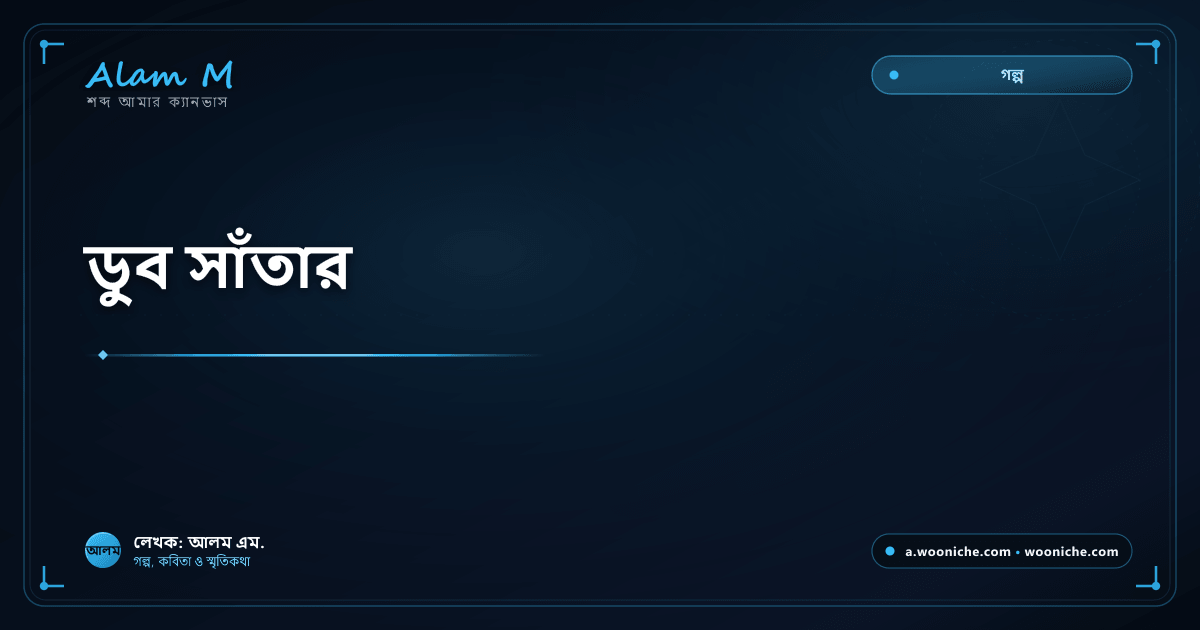
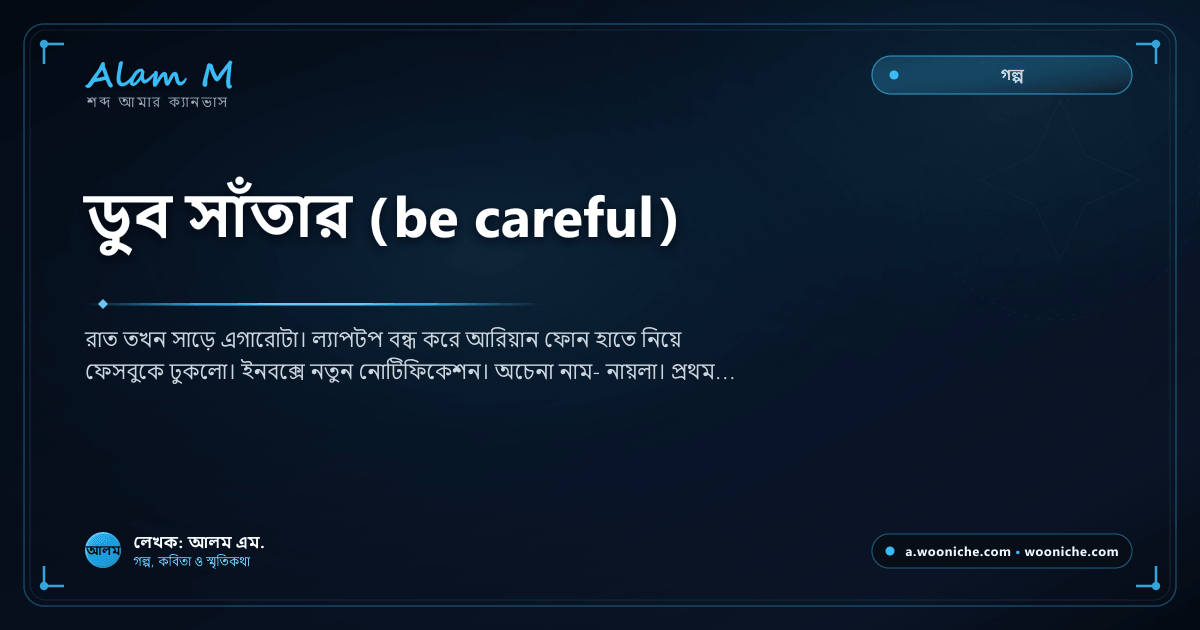
content: update story 'ডুব সাঁতার (be careful)' in rich text format with dynamic OG card

Changed region(s): [[0.0617, 0.2714, 0.6167, 0.6032], [0.8325, 0.0905, 0.8633, 0.1206]]

diff --git a/src/integrations/d1/seed-data.ts b/src/integrations/d1/seed-data.ts
@@ -2,6 +2,23 @@
 export const INITIAL_SEED_DATA = {
   "articles": [
     {
+      "id": "240ca110-56e6-4cb2-8483-b5cba79d6def",
+      "slug": "be-careful",
+      "title_bn": "ডুব সাঁতার (be careful)",
+      "title_en": "Be Careful",
+      "excerpt_bn": "রাত তখন সাড়ে এগারোটা। ল্যাপটপ বন্ধ করে আরিয়ান ফোন হাতে নিয়ে ফেসবুকে ঢুকলো। ইনবক্সে নতুন নোটিফিকেশন। অচেনা নাম- নায়লা। প্রথম মেসেজটা পড়েই বুকটা ধড়াস করে উঠলো...",
+      "excerpt_en": "It was half past eleven at night. Ariyan closed his laptop. Picked up his phone. Opened Facebook. And there it was—a message from a name he'd never seen before...",
+      "content_bn": "<p>রাত তখন সাড়ে এগারোটা। ল্যাপটপ বন্ধ করে আরিয়ান ফোন হাতে নিয়ে ফেসবুকে ঢুকলো। ইনবক্সে নতুন নোটিফিকেশন। অচেনা নাম- নায়লা।</p><p>প্রথম মেসেজটা পড়েই বুকটা ধড়াস করে উঠলো-<br>\"চলেন দেখা করি, চা খাই। প্রেম হলে হলো, না হলে নাই।\"</p><p>আরিয়ান হেসে ফেললো। মেয়েটা অচেনা হলেও মেসেজে দারুণ সাহস। সে জবাব দিলো-<br>\"এত রাতে? একটু চটজলদি হয়ে গেলো না?\"</p><p>নায়লা তৎক্ষণাৎ লিখলো-<br>\"হুট করেই তো মজাটা বেশি হয়।\"</p><p>এরপর শুরু হলো ছোট ছোট কথোপকথন। রাত গড়িয়ে গেলেও নায়লার বার্তা আসতেই থাকলো। কখনো সে মজার ছলে লিখছে-<br>\"ঘুমাচ্ছেন না কেন এখনো? কি করছেন এত রাত জেগে?\"<br>কখনো হালকা ইমোজি যোগ করছে- উইঙ্ক, হার্ট, হাসি।</p><p>ধীরে ধীরে ইনবক্স থেকে গল্প গড়াল ভিডিও কলে। প্রথম কলেই নায়লা আধো অন্ধকার ঘরে, ঢিলে নাইটি পরে হাজির। আরিয়ানের দৃষ্টি আটকে গেলো নাইটির ফাঁক গলে যেখানে বুকের ভাঁজ ঝলকাচ্ছিল।</p><p>নায়লা চুল খোলা রেখে হাসি মেখে বললো-<br>\"দেখছো তো? এত রাতে জেগে থাকার পুরস্কার।\"</p><p>প্রথম কলেই রোমান্টিক ইঙ্গিত, একটু দুষ্টুমি খুনসুটি। আরিয়ানের মনে হল সে যেন স্বপ্নে ঢুকে পড়েছে। কলের শেষে নায়লা ক্যামেরার দিকে হালকা ঝুঁকে ফ্লাইং কিস ছুঁড়ে দিলো। বুকের ভাঁজে আগুন!</p><p>এভাবেই দিন কেটে যেতে লাগলো। কখনো লাজুক ইশারা, কখনো মিষ্টি অভিমান- কিন্তু প্রতিটি রাতে যেন আবেশে ডুবে থাকতো দু’জন। আরিয়ানের কাছে রাত মানেই এখন নায়লা।</p><p>কয়েক সপ্তাহ এমন চলার পর এক রাতে নায়লা ফিসফিস করে বললো-<br>\"জানো, আমার হাসবেন্ড অফিসের ট্যুরে দেশের বাইরে যাচ্ছে। পুরো এক সপ্তাহ আমি একা।\"</p><p>আরিয়ান চমকে উঠলো-<br>\"তুমি… বিবাহিতা?\"</p><p>নায়লা মৃদু হেসে বললো-<br>\"এখন জেনে কি লাভ? এতদিন জানোনি তো কোনো অসুবিধা হয়নি। তুমি শুধু ভাবো আমি তোমার।\"</p><p>এরপর নায়লা মোহাবিষ্ট কণ্ঠে বললো-<br>\"ভিডিও কলে তো সবই দেখেছো। এবার ছুঁয়ে দেখবে, আদর করবে। আমি তোমার জন্য লাল সেট রেখেছি। তুমি খুলে খুলে আমায় আবিষ্কার করবে। তবে মনে রেখো, আমি কামড়াবো, তুমি পারবে না। তুমি শুধু আদরে ভরিয়ে দেবে। পারবে তো?\"</p><p>আরিয়ান মাথা নাড়লো। সন্দেহ বা ভয়কে দূরে ঠেলে দিয়ে তার চোখে ভাসলো কেবল এক প্রলোভনের পৃথিবী।</p><p>অবশেষে দিন এল। সকালে কলিং বেল। কাজের বুয়া এসেছে। নায়লা সোজা বলে দিলো-<br>\"আজকে কাজ করতে হবেনা। আমি নিজেই করবো।\"</p><p>দিনের পর দিন চললো তাদের ডুব সাঁতার- রোমান্টিকতা আর নেশার মিশ্রণে। ভিডিও কলে একে অপরকে ছুঁয়ে দেখা, রঙিন কথা, হাসি-ঠাট্টা। বিকেলে আরিয়ান কল দিলে নায়লা তাকে আরও উস্কে দিতো।</p><p>একদিন সন্ধ্যায় নায়লা হঠাৎ আরিয়ানের মেসেঞ্জারে একটা ভিডিও ক্লিপ পাঠালো। সেখানে দেখা গেল তাদের আগের রাতের অন্তরঙ্গ মুহূর্ত।</p><p>আরিয়ান এক মুহূর্তের জন্যও খেয়াল করলো না, এতটা ব্যক্তিগত ভিডিও আসলো কীভাবে। তার মাথা তখন শুধু একটাই- আবার ডুব দিতে হবে। রাতে সে ছুটলো নায়লার বাসায়।</p><p>এভাবেই কয়েকদিন ধরে চললো। আরিয়ান বুঝতেই পারলো না- সবকিছুই গোপন ক্যামেরায় রেকর্ড হচ্ছে।</p><p>এক সপ্তাহ পর নায়লা জানালো-<br>\"আমার হাসবেন্ড ফিরে এসেছে।\"</p><p>এরপর আর আগের মতো ঘন ঘন ভিডিও কল নয়। মাঝে মাঝে মাত্র এক মিনিটের জন্য নায়লা অনলাইনে এসে ফ্লাইং কিস ছুঁড়ে দিতো, তারপর মিলিয়ে যেতো।</p><p>কিন্তু ততদিনে আরিয়ান আসক্ত। সে ডুব সাঁতার ছাড়া থাকতে পারে না। নায়লা তখন নতুন প্রস্তাব দিলো-<br>\"তুমি একটা ৫-স্টার হোটেলে রুম বুক করো। আমি সকালে চলে আসবো। সারাদিন একসাথে থাকবো। তুমি তোমার মতো মজা করবে।\"</p><p>আরিয়ান দুই দিন পর রুম বুক করলো। মেসেজে লিখলো-<br>\"হোটেল ইন্টারকন্টিনেন্টাল, রুম ৩০৩।\"</p><p>সকালবেলা দরজায় নক হলো। দরজা খুলতেই আরিয়ান স্তম্ভিত। নায়লা এসেছে, তবে সঙ্গে আরেকজন পুরুষ।</p><p>আরিয়ানের চোখ কপালে উঠে গেলো-<br>\"এটা কি হচ্ছে?\"</p><p>নায়লা ঠান্ডা হাসি দিয়ে একটা পেনড্রাইভ এগিয়ে দিলো-<br>\"ল্যাপটপে চালাও।\"</p><p>কাঁপতে থাকা হাতে আরিয়ান ভিডিও চালালো। পর্দায় ভেসে উঠলো তার আর নায়লার গোপন মুহূর্তগুলো- প্রতিটি সেকেন্ড ক্যামেরাবন্দী।</p><p>রুমের নিস্তব্ধতায় আরিয়ানের বুক ধড়ফড় করতে লাগলো। কিছুক্ষণ পর নিজেই চুপচাপ বললো-<br>\"কত টাকা চাও?\"</p><p>নায়লা ঠোঁট বাঁকিয়ে হেসে বললো-<br>\"টাকা নয়। যখন ডাকবো, কলে আসবে। মজা নেবে, আর সোনার ডিম পাড়বে। আমাদের খেলা এখনো শেষ হয়নি।\"</p><p>আরিয়ান চুপচাপ বসে রইলো। চোখের সামনে হঠাৎ ভেসে উঠলো সেই প্রথম মেসেজ-<br>\"চলেন দেখা করি, চা খাই। প্রেম হলে হলো, না হলে নাই।\"</p><p>তখনই সে বুঝলো- প্রেম ছিল না কোথাও, সবকিছুই ছিল নিখুঁতভাবে সাজানো এক ফাঁদ। রোমান্সের আবরণে আসক্তি, আসক্তির আড়ালে ব্ল্যাকমেইল। নায়লার প্রতিটি হাসি, প্রতিটি ইঙ্গিত ছিল পরিকল্পনার অংশ। আরিয়ানের কাছে রাতগুলো স্বপ্নের মতো মনে হলেও সেগুলোই হয়ে উঠলো দুঃস্বপ্ন।</p><p>ফ্লাইং কিসের মোহ, নাইটির ঝলক আর ডুব সাঁতারের নেশা - সব মিলিয়ে এক ভয়ংকর পরিণতির দিকে ঠেলে দিলো তাকে। শেষ পর্যন্ত প্রেম নয়, প্রলোভনই জয়ী হলো আর আরিয়ান রয়ে গেলো অন্ধকার ব্ল্যাকমেইলের বন্দি।</p><p class=\"poem-date\"><strong>©আলম</strong> - ৩০ সেপ্টেম্বর ২০২৫ইং, রাত ১২টা।</p>",
+      "content_en": "<div>It was half past eleven at night.</div><div><br></div><div>Ariyan closed his laptop. Picked up his phone. Opened Facebook.</div><div><br></div><div>And there it was—a message from a name he'd never seen before. Nayla.</div><div><br></div><div>He clicked it. Read the first line. And his heart just… stopped.</div><div><br></div><div>\"Let's meet up. Grab some tea. If it happens, it happens. If not, no big deal.\"</div><div><br></div><div>He laughed. A stranger. But bold. Really bold.</div><div><br></div><div>So he typed back—</div><div><br></div><div>\"At this hour? Isn't that a little sudden?\"</div><div><br></div><div>Her reply came in seconds—</div><div><br></div><div>\"That's the whole point. Spontaneity.\"</div><div><br></div><div>And just like that, the night came alive.</div><div><br></div><div>Text after text. Wink after wink. Heart after heart. She knew exactly what to say, exactly when to say it.</div><div><br></div><div>Soon, messages weren't enough. They moved to video calls.</div><div><br></div><div>The first time he saw her—dim room, loose nightie, hair falling over her shoulders—he forgot how to breathe.</div><div><br></div><div>She smiled. Slow. Dangerous.</div><div><br></div><div>\"See?\" she said. \"This is what happens when you stay up.\"</div><div><br></div><div>And then—a flying kiss. Straight through the screen. And something inside Ariyan… caught fire.</div><div><br></div><div>Days turned into weeks. Every night was hers. Sometimes shy, sometimes playful, always addictive. For Ariyan, night stopped meaning sleep. It meant Nayla.</div><div><br></div><div>Then one night, she whispered something that should've been a warning—</div><div><br></div><div>\"My husband's going abroad. Whole week. I'll be all alone.\"</div><div><br></div><div>He froze.</div><div><br></div><div>\"You're… married?\"</div><div><br></div><div>She just smiled.</div><div><br></div><div>\"Does it matter now? You didn't ask before. Just think of me as yours.\"</div><div><br></div><div>And then her voice dropped. Low. Smooth. Lethal.</div><div><br></div><div>\"You've seen everything on screen. Now it's time to feel. I've got a red set waiting. You'll unwrap me. Discover me. But I'll bite—and you won't last. You'll just hold me, drown me in love. Can you do that?\"</div><div><br></div><div>Ariyan nodded. Didn't think twice. Didn't want to.</div><div><br></div><div>Temptation had already won.</div><div><br></div><div>The day came. Morning. Doorbell. The maid.</div><div><br></div><div>Nayla waved her off—</div><div><br></div><div>\"Not today. I'll handle it.\"</div><div><br></div><div>And so it went. Day after day. Calls. Laughter. Heat. Every afternoon, he'd call—and she'd turn the temperature up.</div><div><br></div><div>Then one evening, she sent him a video.</div><div><br></div><div>A clip from their night before. Intimate. Private. Recorded.</div><div><br></div><div>And Ariyan? He didn't even pause to ask how. His mind was already gone. All he wanted was more. That night, he ran to her place.</div><div><br></div><div>He never noticed the cameras. Never saw the trap closing in.</div><div><br></div><div>A week later, she said—</div><div><br></div><div>\"My husband's back.\"</div><div><br></div><div>The calls stopped. She'd pop online for a minute, blow a kiss, and vanish.</div><div><br></div><div>But Ariyan was already hooked. He couldn't go back. Couldn't stop.</div><div><br></div><div>That's when she made her move.</div><div><br></div><div>\"Book a five-star hotel. I'll come in the morning. We'll have all day. Your way. Your fun.\"</div><div><br></div><div>Two days later, he booked it. Texted her the details.</div><div><br></div><div>\"Intercontinental. Room 303.\"</div><div><br></div><div>Morning. Knock on the door.</div><div><br></div><div>He opened it—and his world cracked.</div><div><br></div><div>Nayla was there. But so was someone else. A man. Standing right behind her.</div><div><br></div><div>Ariyan's voice broke—</div><div><br></div><div>\"What… what is this?\"</div><div><br></div><div>Nayla smiled. Cold. Flat. And handed him a pendrive.</div><div><br></div><div>\"Plug it in.\"</div><div><br></div><div>His hands were shaking. He played the video.</div><div><br></div><div>And there it was. Every moment. Every touch. Every secret. Captured. Clean. Clear.</div><div><br></div><div>Silence.</div><div><br></div><div>His heart pounded so loud he could hear it in his ears.</div><div><br></div><div>Finally, he whispered—</div><div><br></div><div>\"How much?\"</div><div><br></div><div>Nayla tilted her head. Smirked.</div><div><br></div><div>\"Not money. When I call, you answer. You play along. You keep laying golden eggs. This game… isn't over.\"</div><div><br></div><div>And Ariyan just sat there.</div><div><br></div><div>Empty.</div><div><br></div><div>Then, out of nowhere, her first message echoed in his head—</div><div><br></div><div>\"Let's meet up. Grab some tea. If it happens, it happens. If not, no big deal.\"</div><div><br></div><div>And that's when it hit him.</div><div><br></div><div>There was never any love.</div><div><br></div><div>It was a trap. Perfectly planned. Romance was just the mask. Addiction was the leash. And blackmail… blackmail was the punchline.</div><div><br></div><div>Every smile. Every tease. Every flying kiss. All of it—part of the script.</div><div><br></div><div>The nights he thought were dreams? They were his nightmare in disguise.</div><div><br></div><div>The flying kisses, the glow of her nightie, the rush of falling deeper—it all led him to one place. A dead end.</div><div><br></div><div>In the end, love didn't win.</div><div><br></div><div>Temptation did.</div><div><br></div><div>And Ariyan? He stayed behind—trapped in the dark, locked inside a blackmailer's game.</div><div><br></div><div>(Voiceover ends)</div><div><br></div><div>©Alam – 30 September 2025, 12 AM.</div>",
+      "cover_image_url": null,
+      "published": true,
+      "published_at": "2026-11-07T16:30:00.000Z",
+      "created_by": "3442b3b8-a20b-4c4a-9978-1e4815381806",
+      "author_id": "6a308470-2d8d-4cd8-996b-a96de32efdc2",
+      "created_at": "2026-11-07T16:30:00.000Z",
+      "updated_at": "2026-11-07T16:30:00.000Z"
+    },
+    {
       "id": "134bb1b1-738d-48d2-8457-db1c989f8401",
       "slug": "kalo-amar-kalo",
       "title_bn": "কালো আমার কালো",
@@ -238,27 +255,15 @@ export const INITIAL_SEED_DATA = {
       "created_at": "2026-08-19T22:15:50.491725+00:00",
       "updated_at": "2026-08-19T22:15:50.491725+00:00",
       "author_id": null
-    },
-    {
-      "id": "240ca110-56e6-4cb2-8483-b5cba79d6def",
-      "slug": "be-careful",
-      "title_bn": "ডুব সাঁতার",
-      "title_en": "Be Careful",
-      "excerpt_bn": null,
-      "excerpt_en": null,
-      "content_bn": "<div class=\"x14z9mp xat24cr x1lziwak x1vvkbs xtlvy1s x126k92a\" data-original-attrs=\"{&quot;style&quot;:&quot;&quot;}\" style=\"background-color: white; margin-inline: 0px; margin-top: 0.5em; overflow-wrap: break-word;\"><div data-original-attrs=\"{&quot;style&quot;:&quot;&quot;}\" dir=\"auto\" style=\"\"><font color=\"#080809\" face=\"Segoe UI Historic, Segoe UI, Helvetica, Arial, sans-serif\"><span style=\"white-space-collapse: preserve;\">রাত তখন সাড়ে এগারোটা। ল্যাপটপ বন্ধ করে আরিয়ান ফোন হাতে নিয়ে ফেসবুকে ঢুকলো। ইনবক্সে নতুন নোটিফিকেশন। অচেনা নাম—নায়লা।\n\nপ্রথম মেসেজটা পড়েই বুকটা ধড়াস করে উঠলো—\n\n\"চলেন দেখা করি, চা খাই। প্রেম হলে হলো, না হলে নাই।\"\n\nআরিয়ান হেসে ফেললো। মেয়েটা অচেনা হলেও মেসেজে দারুণ সাহস।\n\nসে জবাব দিলো—\n\n\"এত রাতে? একটু চটজলদি হয়ে গেলো না?\"\n\nনায়লা তৎক্ষণাৎ লিখলো—\n\n\"হুট করেই তো মজাটা বেশি হয়।\"\n\nএরপর শুরু হলো ছোট ছোট কথোপকথন। রাত গড়িয়ে গেলেও নায়লার বার্তা আসতেই থাকলো।\n\nকখনো সে মজার ছলে লিখছে—\n\n\"ঘুমাচ্ছেন না কেন এখনো? কি করছেন এত রাত জেগে?\"\n\nকখনো হালকা ইমোজি যোগ করছে—উইঙ্ক, হার্ট, হাসি।\n\nধীরে ধীরে ইনবক্স থেকে গল্প গড়াল ভিডিও কলে। প্রথম কলেই নায়লা আধো অন্ধকার ঘরে, ঢিলে নাইটি পরে হাজির। আরিয়ানের দৃষ্টি আটকে গেলো নাইটির ফাঁক গলে যেখানে বুকের ভাঁজ ঝলকাচ্ছিল।\n\nনায়লা চুল খোলা রেখে হাসি মেখে বললো—\n\n\"দেখছো তো? এত রাতে জেগে থাকার পুরস্কার।\"\n\nপ্রথম কলেই রোমান্টিক ইঙ্গিত, একটু দুষ্টুমি খুনসুটি। আরিয়ানের মনে হল সে যেন স্বপ্নে ঢুকে পড়েছে। কলের শেষে নায়লা ক্যামেরার দিকে হালকা ঝুঁকে ফ্লাইং কিস ছুঁড়ে দিলো। বুকের ভাঁজে আগুন!\n\nএভাবেই দিন কেটে যেতে লাগলো। কখনো লাজুক ইশারা, কখনো মিষ্টি অভিমান—কিন্তু প্রতিটি রাতে যেন আবেশে ডুবে থাকতো দুজন। আরিয়ানের কাছে রাত মানেই এখন নায়লা।\n\nকয়েক সপ্তাহ এমন চলার পর এক রাতে নায়লা ফিসফিস করে বললো—\n\n\"জানো, আমার হাসবেন্ড অফিসের ট্যুরে দেশের বাইরে যাচ্ছে। পুরো এক সপ্তাহ আমি একা।\"\n\nআরিয়ান চমকে উঠলো—\n\n\"তুমি… বিবাহিতা?\"\n\nনায়লা মৃদু হেসে বললো—\n\n\"এখন জেনে কি লাভ? এতদিন জানোনি তো কোনো অসুবিধা হয়নি। তুমি শুধু ভাবো আমি তোমার।\"\n\nএরপর নায়লা মোহাবিষ্ট কণ্ঠে বললো—\n\n\"ভিডিও কলে তো সবই দেখেছো। এবার ছুঁয়ে দেখবে, আদর করবে। আমি তোমার জন্য লাল সেট রেখেছি। তুমি খুলে খুলে আমায় আবিষ্কার করবে। তবে মনে রেখো, আমি কামড়াবো, তুমি পারবে না। তুমি শুধু আদরে ভরিয়ে দেবে। পারবে তো?\"\n\nআরিয়ান মাথা নাড়লো। সন্দেহ বা ভয়কে দূরে ঠেলে দিয়ে তার চোখে ভাসলো কেবল এক প্রলোভনের পৃথিবী।\n\nঅবশেষে দিন এল। সকালে কলিং বেল। কাজের বুয়া এসেছে। নায়লা সোজা বলে দিলো—\n\n\"আজকে কাজ করতে হবেনা। আমি নিজেই করবো।\"\n\nদিনের পর দিন চললো তাদের ডুব সাঁতার—রোমান্টিকতা আর নেশার মিশ্রণে। ভিডিও কলে একে অপরকে ছুঁয়ে দেখা, রঙিন কথা, হাসি-ঠাট্টা। বিকেলে আরিয়ান কল দিলে নায়লা তাকে আরও উস্কে দিতো।\n\nএকদিন সন্ধ্যায় নায়লা হঠাৎ আরিয়ানের মেসেঞ্জারে একটা ভিডিও ক্লিপ পাঠালো। সেখানে দেখা গেল তাদের আগের রাতের অন্তরঙ্গ মুহূর্ত।\n\nআরিয়ান এক মুহূর্তের জন্যও খেয়াল করলো না, এতটা ব্যক্তিগত ভিডিও আসলো কীভাবে। তার মাথা তখন শুধু একটাই—আবার ডুব দিতে হবে। রাতে সে ছুটলো নায়লার বাসায়।\n\nএভাবেই কয়েকদিন ধরে চললো। আরিয়ান বুঝতেই পারলো না—সবকিছুই গোপন ক্যামেরায় রেকর্ড হচ্ছে।\n\nএক সপ্তাহ পর নায়লা জানালো—\n\n\"আমার হাসবেন্ড ফিরে এসেছে।\"\n\nএরপর আর আগের মতো ঘন ঘন ভিডিও কল নয়। মাঝে মাঝে মাত্র এক মিনিটের জন্য নায়লা অনলাইনে এসে ফ্লাইং কিস ছুঁড়ে দিতো, তারপর মিলিয়ে যেতো।\n\nকিন্তু ততদিনে আরিয়ান আসক্ত। সে ডুব সাঁতার ছাড়া থাকতে পারে না। নায়লা তখন নতুন প্রস্তাব দিলো—\n\n\"তুমি একটা ৫-স্টার হোটেলে রুম বুক করো। আমি সকালে চলে আসবো। সারাদিন একসাথে থাকবো। তুমি তোমার মতো মজা করবে।\"\n\nআরিয়ান দুই দিন পর রুম বুক করলো। মেসেজে লিখলো—\n\n\"হোটেল ইন্টারকন্টিনেন্টাল, রুম ৩০৩।\"\n\nসকালবেলা দরজায় নক হলো। দরজা খুলতেই আরিয়ান স্তম্ভিত। নায়লা এসেছে, তবে সঙ্গে আরেকজন পুরুষ।\n\nআরিয়ানের চোখ কপালে উঠে গেলো।\n\n\"এটা কি হচ্ছে?\"\n\nনায়লা ঠান্ডা হাসি দিয়ে একটা পেনড্রাইভ এগিয়ে দিলো।\n\n\"ল্যাপটপে চালাও।\"\n\nকাঁপতে থাকা হাতে আরিয়ান ভিডিও চালালো। পর্দায় ভেসে উঠলো তার আর নায়লার গোপন মুহূর্তগুলো—প্রতি সেকেন্ড ক্যামেরাবন্দী।\n\nরুমের নিস্তব্ধতায় আরিয়ানের বুক ধড়ফড় করতে লাগলো। কিছুক্ষণ পর নিজেই চুপচাপ বললো—\n\n\"কত টাকা চাও?\"\n\nনায়লা ঠোঁট বাঁকিয়ে হেসে বললো—\n\n\"টাকা নয়। যখন ডাকবো, কলে আসবে। মজা নেবে, আর সোনার ডিম পাড়বে। আমাদের খেলা এখনো শেষ হয়নি।\"\n\nআরিয়ান চুপচাপ বসে রইলো। চোখের সামনে হঠাৎ ভেসে উঠলো সেই প্রথম মেসেজ—\n\n\"চলেন দেখা করি, চা খাই। প্রেম হলে হলো, না হলে নাই।\"\n\nতখনই সে বুঝলো—প্রেম ছিল না কোথাও, সবকিছুই ছিল নিখুঁতভাবে সাজানো এক ফাঁদ। রোমান্সের আবরণে আসক্তি, আসক্তির আড়ালে ব্ল্যাকমেইল। নায়লার প্রতিটি হাসি, প্রতিটি ইঙ্গিত ছিল পরিকল্পনার অংশ। আরিয়ানের কাছে রাতগুলো স্বপ্নের মতো মনে হলেও সেগুলোই হয়ে উঠলো দুঃস্বপ্ন।\n\nফ্লাইং কিসের মোহ, নাইটির ঝলক আর ডুব সাঁতারের নেশা—সব মিলিয়ে এক ভয়ংকর পরিণতির দিকে ঠেলে দিলো তাকে।\n\nশেষ পর্যন্ত প্রেম নয়, প্রলোভনই জয়ী হলো আর আরিয়ান রয়ে গেলো অন্ধকার ব্ল্যাকমেইলের বন্দি।\n\n©আলম - ৩০ সেপ্টেম্বর ২০২৫ইং, রাত ১২টা।</span></font></div></div>",
-      "content_en": "<div>It was half past eleven at night.</div><div><br></div><div>Ariyan closed his laptop. Picked up his phone. Opened Facebook.</div><div><br></div><div>And there it was—a message from a name he'd never seen before. Nayla.</div><div><br></div><div>He clicked it. Read the first line. And his heart just… stopped.</div><div><br></div><div>\"Let's meet up. Grab some tea. If it happens, it happens. If not, no big deal.\"</div><div><br></div><div>He laughed. A stranger. But bold. Really bold.</div><div><br></div><div>So he typed back—</div><div><br></div><div>\"At this hour? Isn't that a little sudden?\"</div><div><br></div><div>Her reply came in seconds—</div><div><br></div><div>\"That's the whole point. Spontaneity.\"</div><div><br></div><div>And just like that, the night came alive.</div><div><br></div><div>Text after text. Wink after wink. Heart after heart. She knew exactly what to say, exactly when to say it.</div><div><br></div><div>Soon, messages weren't enough. They moved to video calls.</div><div><br></div><div>The first time he saw her—dim room, loose nightie, hair falling over her shoulders—he forgot how to breathe.</div><div><br></div><div>She smiled. Slow. Dangerous.</div><div><br></div><div>\"See?\" she said. \"This is what happens when you stay up.\"</div><div><br></div><div>And then—a flying kiss. Straight through the screen. And something inside Ariyan… caught fire.</div><div><br></div><div>Days turned into weeks. Every night was hers. Sometimes shy, sometimes playful, always addictive. For Ariyan, night stopped meaning sleep. It meant Nayla.</div><div><br></div><div>Then one night, she whispered something that should've been a warning—</div><div><br></div><div>\"My husband's going abroad. Whole week. I'll be all alone.\"</div><div><br></div><div>He froze.</div><div><br></div><div>\"You're… married?\"</div><div><br></div><div>She just smiled.</div><div><br></div><div>\"Does it matter now? You didn't ask before. Just think of me as yours.\"</div><div><br></div><div>And then her voice dropped. Low. Smooth. Lethal.</div><div><br></div><div>\"You've seen everything on screen. Now it's time to feel. I've got a red set waiting. You'll unwrap me. Discover me. But I'll bite—and you won't last. You'll just hold me, drown me in love. Can you do that?\"</div><div><br></div><div>Ariyan nodded. Didn't think twice. Didn't want to.</div><div><br></div><div>Temptation had already won.</div><div><br></div><div>The day came. Morning. Doorbell. The maid.</div><div><br></div><div>Nayla waved her off—</div><div><br></div><div>\"Not today. I'll handle it.\"</div><div><br></div><div>And so it went. Day after day. Calls. Laughter. Heat. Every afternoon, he'd call—and she'd turn the temperature up.</div><div><br></div><div>Then one evening, she sent him a video.</div><div><br></div><div>A clip from their night before. Intimate. Private. Recorded.</div><div><br></div><div>And Ariyan? He didn't even pause to ask how. His mind was already gone. All he wanted was more. That night, he ran to her place.</div><div><br></div><div>He never noticed the cameras. Never saw the trap closing in.</div><div><br></div><div>A week later, she said—</div><div><br></div><div>\"My husband's back.\"</div><div><br></div><div>The calls stopped. She'd pop online for a minute, blow a kiss, and vanish.</div><div><br></div><div>But Ariyan was already hooked. He couldn't go back. Couldn't stop.</div><div><br></div><div>That's when she made her move.</div><div><br></div><div>\"Book a five-star hotel. I'll come in the morning. We'll have all day. Your way. Your fun.\"</div><div><br></div><div>Two days later, he booked it. Texted her the details.</div><div><br></div><div>\"Intercontinental. Room 303.\"</div><div><br></div><div>Morning. Knock on the door.</div><div><br></div><div>He opened it—and his world cracked.</div><div><br></div><div>Nayla was there. But so was someone else. A man. Standing right behind her.</div><div><br></div><div>Ariyan's voice broke—</div><div><br></div><div>\"What… what is this?\"</div><div><br></div><div>Nayla smiled. Cold. Flat. And handed him a pendrive.</div><div><br></div><div>\"Plug it in.\"</div><div><br></div><div>His hands were shaking. He played the video.</div><div><br></div><div>And there it was. Every moment. Every touch. Every secret. Captured. Clean. Clear.</div><div><br></div><div>Silence.</div><div><br></div><div>His heart pounded so loud he could hear it in his ears.</div><div><br></div><div>Finally, he whispered—</div><div><br></div><div>\"How much?\"</div><div><br></div><div>Nayla tilted her head. Smirked.</div><div><br></div><div>\"Not money. When I call, you answer. You play along. You keep laying golden eggs. This game… isn't over.\"</div><div><br></div><div>And Ariyan just sat there.</div><div><br></div><div>Empty.</div><div><br></div><div>Then, out of nowhere, her first message echoed in his head—</div><div><br></div><div>\"Let's meet up. Grab some tea. If it happens, it happens. If not, no big deal.\"</div><div><br></div><div>And that's when it hit him.</div><div><br></div><div>There was never any love.</div><div><br></div><div>It was a trap. Perfectly planned. Romance was just the mask. Addiction was the leash. And blackmail… blackmail was the punchline.</div><div><br></div><div>Every smile. Every tease. Every flying kiss. All of it—part of the script.</div><div><br></div><div>The nights he thought were dreams? They were his nightmare in disguise.</div><div><br></div><div>The flying kisses, the glow of her nightie, the rush of falling deeper—it all led him to one place. A dead end.</div><div><br></div><div>In the end, love didn't win.</div><div><br></div><div>Temptation did.</div><div><br></div><div>And Ariyan? He stayed behind—trapped in the dark, locked inside a blackmailer's game.</div><div><br></div><div>(Voiceover ends)</div><div><br></div><div>©Alam – 30 September 2025, 12 AM.</div>",
-      "cover_image_url": null,
-      "published": true,
-      "published_at": "2026-08-20T04:32:56.37+00:00",
-      "created_by": "3442b3b8-a20b-4c4a-9978-1e4815381806",
-      "created_at": "2026-08-20T04:24:49.080119+00:00",
-      "updated_at": "2026-08-20T04:33:02.149027+00:00",
-      "author_id": "6a308470-2d8d-4cd8-996b-a96de32efdc2"
     }
   ],
   "verse_translations": [],
   "article_categories": [
+    {
+      "article_id": "240ca110-56e6-4cb2-8483-b5cba79d6def",
+      "category_id": "0b772921-f656-483b-9f0d-664ebabede53",
+      "created_at": "2026-11-07T16:30:00.000Z"
+    },
     {
       "article_id": "134bb1b1-738d-48d2-8457-db1c989f8401",
       "category_id": "fa17b7b2-a53b-4d67-b2bb-3828971b72ba",
@@ -323,11 +328,6 @@ export const INITIAL_SEED_DATA = {
       "article_id": "163c5463-71a3-4ca7-a07f-7d364c3c9dce",
       "category_id": "fa17b7b2-a53b-4d67-b2bb-3828971b72ba",
       "created_at": "2026-08-19T22:15:51.502188+00:00"
-    },
-    {
-      "article_id": "240ca110-56e6-4cb2-8483-b5cba79d6def",
-      "category_id": "0b772921-f656-483b-9f0d-664ebabede53",
-      "created_at": "2026-08-20T04:33:02.562623+00:00"
     },
     {
       "article_id": "442b340f-45e8-4cd6-81c3-69a838c28cc2",

diff --git a/src/lib/staticArticlesMeta.ts b/src/lib/staticArticlesMeta.ts
@@ -1,6 +1,16 @@
 // Auto-generated static metadata for articles (UTF-8 without BOM)
 export const STATIC_ARTICLES_META = [
   {
+    "id": "240ca110-56e6-4cb2-8483-b5cba79d6def",
+    "slug": "be-careful",
+    "title_bn": "ডুব সাঁতার (be careful)",
+    "title_en": "Be Careful",
+    "excerpt_bn": "রাত তখন সাড়ে এগারোটা। ল্যাপটপ বন্ধ করে আরিয়ান ফোন হাতে নিয়ে ফেসবুকে ঢুকলো। ইনবক্সে নতুন নোটিফিকেশন। অচেনা নাম- নায়লা। প্রথম মেসেজটা পড়েই বুকটা ধড়াস করে উঠলো...",
+    "excerpt_en": "It was half past eleven at night. Ariyan closed his laptop. Picked up his phone. Opened Facebook. And there it was—a message from a name he'd never seen before...",
+    "cover_image_url": "https://a.wooniche.com/og/articles/be-careful.png",
+    "published_at": "2026-11-07T16:30:00.000Z"
+  },
+  {
     "id": "134bb1b1-738d-48d2-8457-db1c989f8401",
     "slug": "kalo-amar-kalo",
     "title_bn": "কালো আমার কালো",
@@ -139,16 +149,6 @@ export const STATIC_ARTICLES_META = [
     "excerpt_en": "",
     "cover_image_url": "https://a.wooniche.com/og/articles/option-ami-noi.png",
     "published_at": "2026-08-19T22:15:49.528+00:00"
-  },
-  {
-    "id": "240ca110-56e6-4cb2-8483-b5cba79d6def",
-    "slug": "be-careful",
-    "title_bn": "ডুব সাঁতার",
-    "title_en": "Be Careful",
-    "excerpt_bn": "",
-    "excerpt_en": "",
-    "cover_image_url": "https://a.wooniche.com/og/articles/be-careful.png",
-    "published_at": "2026-08-20T04:32:56.37+00:00"
   }
 ] as const;
 
